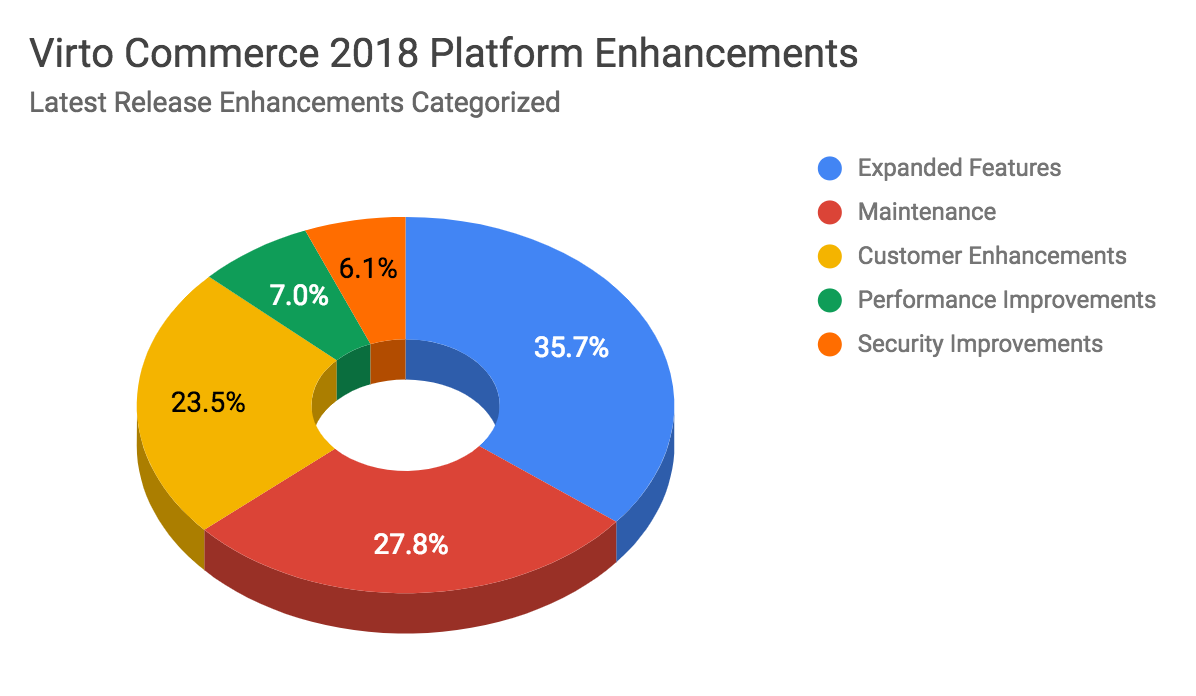
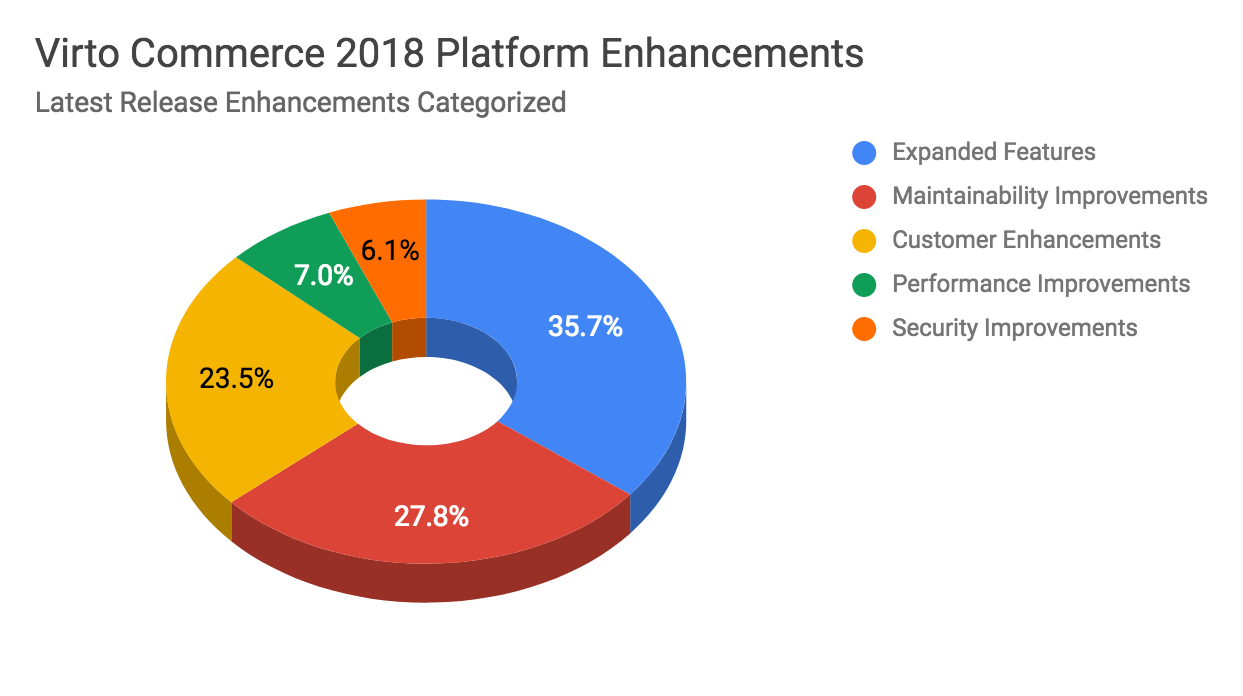
FE: Fixes for product release notes 2019 news blog. (#157)

diff --git a/pages/blogs/news/2019-01-25-virtocommerce-product-release-notes-february-2019.md b/pages/blogs/news/2019-01-25-virtocommerce-product-release-notes-february-2019.md
@@ -9,14 +9,104 @@ tags:
 - platform
 - virtocommerce
 title: Virto Commerce Product Release Notes February 2019
-excerpt: Virto Commerce development in Q3-Q4 of 2018 focused on improving several areas including key features, maintenance, customer-drive enhancements, as well as security and performance speed.
+excerpt: Virto Commerce development in Q3-Q4 of 2018 focused on improving several areas including key features, maintainability, customer-drive enhancements, as well as security and performance speed.
 ---
 ### <dfn>Virto Commerce Product Release Notes February 2019</dfn>
 
 <u>
     <strong>Overview of Recent Product Releases</strong>
 </u>
-<p>Virto Commerce development in Q3-Q4 of 2018 focused on improving several areas including key
-features, maintenance, customer-drive enhancements, as well as security and performance speed.</p>
+<p>
+    Virto Commerce development in Q3-Q4 of 2018 focused on improving several areas including key
+    features, maintainability, customer-drive enhancements, as well as security and performance
+    speed.
+</p>
 <img src="/assets/images/blog/virtocommerce-2018-platform-enhancements.png" />
-<p><a href="/assets/files/virtocommerce-product-release-notes-2019.pdf">Learn more...</a></p>
+<u>
+    <strong>Features: What’s new in Virto Commerce?</strong>
+</u>
+<p>
+    The latest feature additions focus on Catalog Management and Order Management – comprising
+    35% of new functionality in this release. The enhancements increase the platform flexibility and
+    suitability for companies of any size and industry. Feature improvements include:
+</p>
+<strong>Order Management improvements:</strong>
+<ul style="margin-left:25px;word-break:break-word;word-wrap:break-word;overflow-wrap:break-word;">
+    <li>Marketing module improvements for promotions/rewards management, new conditions for promotions, ability to apply multiple coupons on checkout etc.</li>
+    <li>Price management was improved: active period for prices (from/till), additional prices control properties;</li>
+    <li>Extended integration with Avalara Tax automation service and improved payment gateways, per customer-enhancement request;</li>
+    <li>Data export/import functionality now supports processing of even larger amounts of data</li>
+</ul>
+<strong>Catalog Management improvements:</strong>
+<ul style="margin-left:25px;word-break:break-word;word-wrap:break-word;overflow-wrap:break-word;">
+    <li>Search and filtering functionality improved significantly in the product catalog to be faster, with wider search reach;</li>
+    <li>Azure search integration was extended.</li>
+</ul>
+<strong>GDPR related improvements:</strong>
+<ul style="margin-left:25px;word-break:break-word;word-wrap:break-word;overflow-wrap:break-word;">
+    <li>New history tracking of contact data changes</li>
+    <li>Moving towards transparency of personal data management.</li>
+</ul>
+<u>
+    <strong>Maintainability: How has platform maintainability improved?</strong>
+</u>
+<p>
+    The latest Virto platform enhancements reduce the cost of implementation and the cost of
+    ownership for our customers. Approximately 27% of our release focused on improvements in
+    maintainability.
+</p>
+<p>
+    A highlighted improvement is an <u>ASP.NET</u> Core update to 2.1.6 version in the Storefront core.
+</p>
+<p>The update includes:</p>
+<ol style="margin-left:25px;word-break:break-word;word-wrap:break-word;overflow-wrap:break-word;">
+    <li>Settings were changed according to a <u>new approach</u> recommended by <u>ASP.NET</u> Core;</li>
+    <li>Authentication and authorization was completely rewritten according to using <u>ASP.NET Identity Core</u>;</li>
+    <li>Default <u>ASP.NET</u> Core <u>in-memory caching</u> completely replaced the <u>CacheManager</u> used before;</li>
+    <li>New more selective cache invalidation based on usage of CancellationChangeToken and strongly typed cache regions allows to display always actual content without performance loss;</li>
+</ol>
+<p>
+    You can see the full list of improvements on <u>GitHub</u>
+</p>
+<u>
+    <strong>Performance and Security: What’s new?</strong>
+</u>
+<strong>System Speed Improvements:</strong>
+<ul style="margin-left:25px;word-break:break-word;word-wrap:break-word;overflow-wrap:break-word;">
+    <li>Parallel requests processing in the Storefront core was improved;</li>
+    <li>Major performance and memory usage improvements in the Catalog module due to excluding pre-loading of the properties dictionary values;</li>
+    <li>Improved API and services methods to allow to manage fullness of resulting member object graph, optimized SQL queries for data loading in the Customer module;</li>
+    <li>Improved CRUD operations performance in the Order module;</li>
+</ul>
+<strong>Security Improvements:</strong>
+<ul style="margin-left:25px;word-break:break-word;word-wrap:break-word;overflow-wrap:break-word;">
+    <li>Integration with Azure Active Directory authentication (SSO) was added</li>
+    <li>Cookie based authentication replaced with a token barrier authorization</li>
+    <li>HSTS policy was added, the platform run in iframe was disabled to prevent ClickJacking attacks</li>
+</ul>
+<u>
+    <strong>FUTURES: What is Coming Soon?</strong>
+</u>
+<strong>Virto Commerce Platform Core 3.0 is expected to be released in 2019.</strong>
+<p>
+    Virto Commerce continuously invests in the platform and align with the highest Microsoft
+    enterprise software standards. The next version of the Virto Commerce platform core will provide
+    improved security and maintainability for our customers by reducing cost of ownership and security
+    risks.
+</p>
+<strong>Technology stack includes:</strong>
+<ul style="margin-left:25px;word-break:break-word;word-wrap:break-word;overflow-wrap:break-word;">
+    <li><u>ASP.NET</u> Core 2.1.6 as base platform</li>
+    <li>EF Core 2.1.4 as primary ORM</li>
+    <li><u>ASP.NET</u> Core Identity 2.1.6 for authentication and authorization</li>
+    <li>OpenIddict 2.0.0 for OAuth authorization</li>
+    <li>WebPack as primary design/runtime bundler and minimizer</li>
+    <li>Swashbuckle.AspNetCore.SwaggerGen for Swagger docs and UI</li>
+    <li>SignalR Core for push notifications</li>
+    <li>AngularJS 1.4 as primary framework for SPA</li>
+    <li>HangFire 1.6.21 for run background tasks</li>
+</ul>
+<p>
+    Read more about Virto Commerce Platform Core V3 and keep track of its progress in <u>GitHub</u>.
+</p>
+<p><a href="/assets/files/virtocommerce-product-release-notes-2019.pdf">Open release notes in PDF file</a></p>
